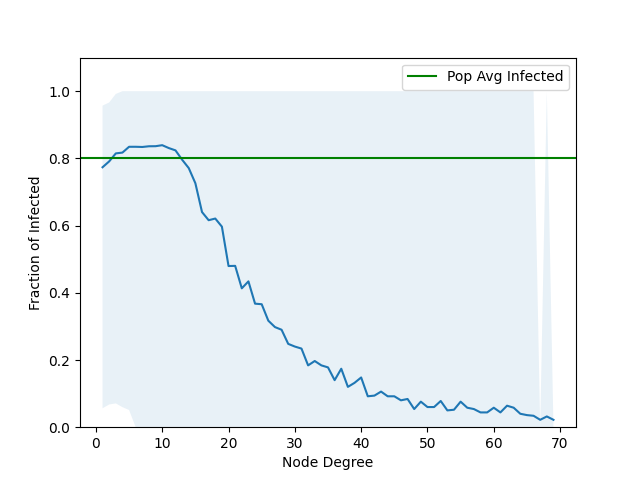
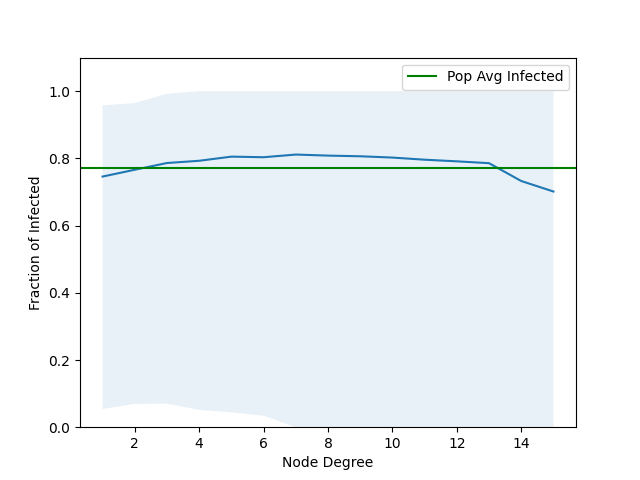
filter out degrees that are too sparse

diff --git a/linear_thres.py b/linear_thres.py
@@ -129,14 +129,18 @@ def single_trial_degree(THRES_UP, get_graph = False):
     ## Filter the largest connected component
     df = df[df["InLargestCC"] == 1]
     df_full = df.copy()
+    df["Count"] = 1
+    df_deg = df[["Degree", "Count"]].groupby("Degree").sum().reset_index()
+    df_deg = df_deg[df_deg["Count"] >= 2]
+    max_deg = df_deg["Degree"].max()
     frac_infected_all = df_full[df_full["Degree"] > 0][["FracInfected"]].mean()
     df = df.groupby("Degree").mean().reset_index()
-    degree_frac_infected = np.zeros(N)
-    max_deg = 0
+    degree_frac_infected = np.empty(N)
+#    max_deg = 0
     for i in range(df.shape[0]):
         deg = int(df.iloc[i]["Degree"])
         frac_infected = df.iloc[i]["FracInfected"]
-        max_deg = max(max_deg, deg)
+#        max_deg = max(max_deg, deg)
         degree_frac_infected[deg] = frac_infected
     return degree_frac_infected, max_deg, frac_infected_all, (g, snapshot)
 
@@ -209,9 +213,9 @@ for THRES_UP in tqdm(THRES_UP_LST):
         frac_infected_trials[trial,:] = degree_frac_infected
         frac_infected_all_trials[trial] = frac_infected_all
         minmax_deg = min(minmax_deg, max_deg)
-    frac_infected_lst = np.mean(frac_infected_trials, axis = 0)[1:(minmax_deg + 1)]
-    upper_lst = np.quantile(frac_infected_trials, 0.975, axis = 0)[1:(minmax_deg + 1)]
-    lower_lst = np.quantile(frac_infected_trials, 0.025, axis = 0)[1:(minmax_deg + 1)]
+    frac_infected_lst = np.nanmean(frac_infected_trials, axis = 0)[1:(minmax_deg + 1)]
+    upper_lst = np.nanquantile(frac_infected_trials, 0.975, axis = 0)[1:(minmax_deg + 1)]
+    lower_lst = np.nanquantile(frac_infected_trials, 0.025, axis = 0)[1:(minmax_deg + 1)]
     degree_lst = np.arange(1, minmax_deg + 1)
     frac_infected_all = np.mean(frac_infected_all_trials)
 
